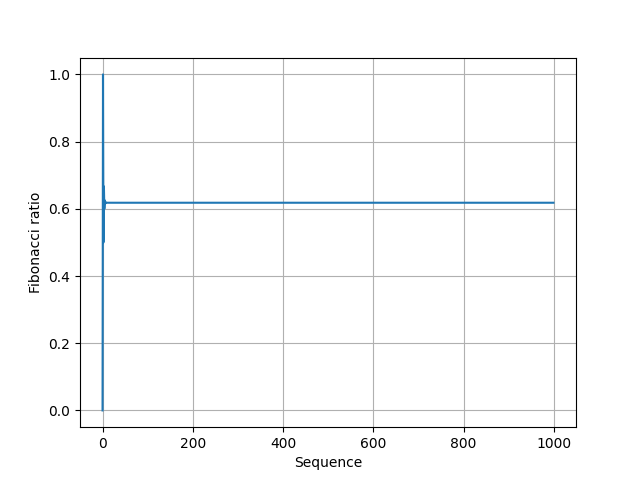
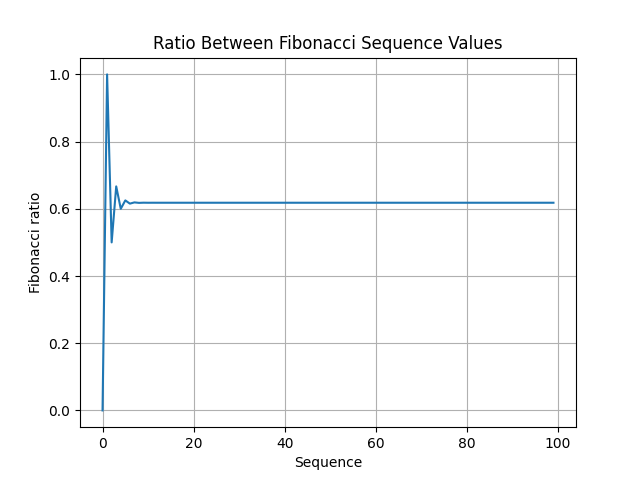
content is updated after the first day of workshop

diff --git a/Linux101/python-project-template-full/main.py b/Linux101/python-project-template-full/main.py
@@ -27,13 +27,14 @@ def main():
     result = fibonacci(100)
     # print(fibonacci(12))
 
-    with open("data/fibonacci_1000.txt", "w") as f:
+    with open("data/fibonacci_100.txt", "w") as f:
         for idx in range(100):
             f.write(f"{str(result[idx])}\n")
 
     # Plot the fibonacci sequence
     plt.plot(result)
     plt.grid(True)
+    plt.title("The Growth of Fibonacci Sequence Values")
     plt.xlabel("Sequence")
     plt.ylabel("Fibonacci values")
     plt.savefig("output/fibonacci_sequence100.png")
@@ -43,6 +44,7 @@ def main():
     ratio = [result[idx] / result[idx+1]  for idx in range(len(result)-1)]
     plt.plot(ratio)
     plt.grid(True)
+    plt.title("Ratio Between Fibonacci Sequence Values")
     plt.xlabel("Sequence")
     plt.ylabel("Fibonacci ratio")
     plt.savefig("output/fibonacci_ratio100.png")

diff --git a/Linux101/README.md b/Linux101/README.md
@@ -50,7 +50,6 @@ The next step is creating each required files and folders for the project templa
 Great! Now, let's check if we created all the files and folders for the project template???
 
 	$ ls --group-directories-first
-	$ ls --g
 
     ├── data
     ├── output
@@ -75,31 +74,27 @@ Now, we are in the editor. Let's continue writing some code.
 
 It looks like writing code in the training is going to take more than I anticipated. Let's clone the repo and continue working on there!
 
-		$ git clone erolrecep/python-project-template-full.git
+		$ git clone https://github.com/erolrecep/GettingStartedwithAHPCC.git
+        $ cd <to_Linux101_workshop_folder>
 
 Since the name of the repository is different than we created, you can easily clone the repository to the same directory of "/home/<username>/Desktop/python-project-template".
 <br>
 
 To make sure the cloned repository is correctly cloned, let's check it.
 
-		$ pwd 			# /home/<username>/Desktop/python-project-template
+		$ pwd 			# /home/<username>/Desktop/GettingStartedwithAHPCC/Linux101
 		$ cd .. 		# This command changes the directory to the parent directory
-		$ cd python-project-template-full
-		# Now, we are in the repository folder
+		$ cd Linux101/python-project-template-full
+		# Now, we are in the project folder
 
 Let's prepare Python environment for the project:
 
-    $ module load miniforge
+    $ module load python/miniforge<version>
 
 Make sure we have access to Python REPL:
 
     $ python3
     >>>
-
-The next step is to load other required software:
-
-    $ module load 
-    $ activate conda environment
 
 Now, run the project:
 
